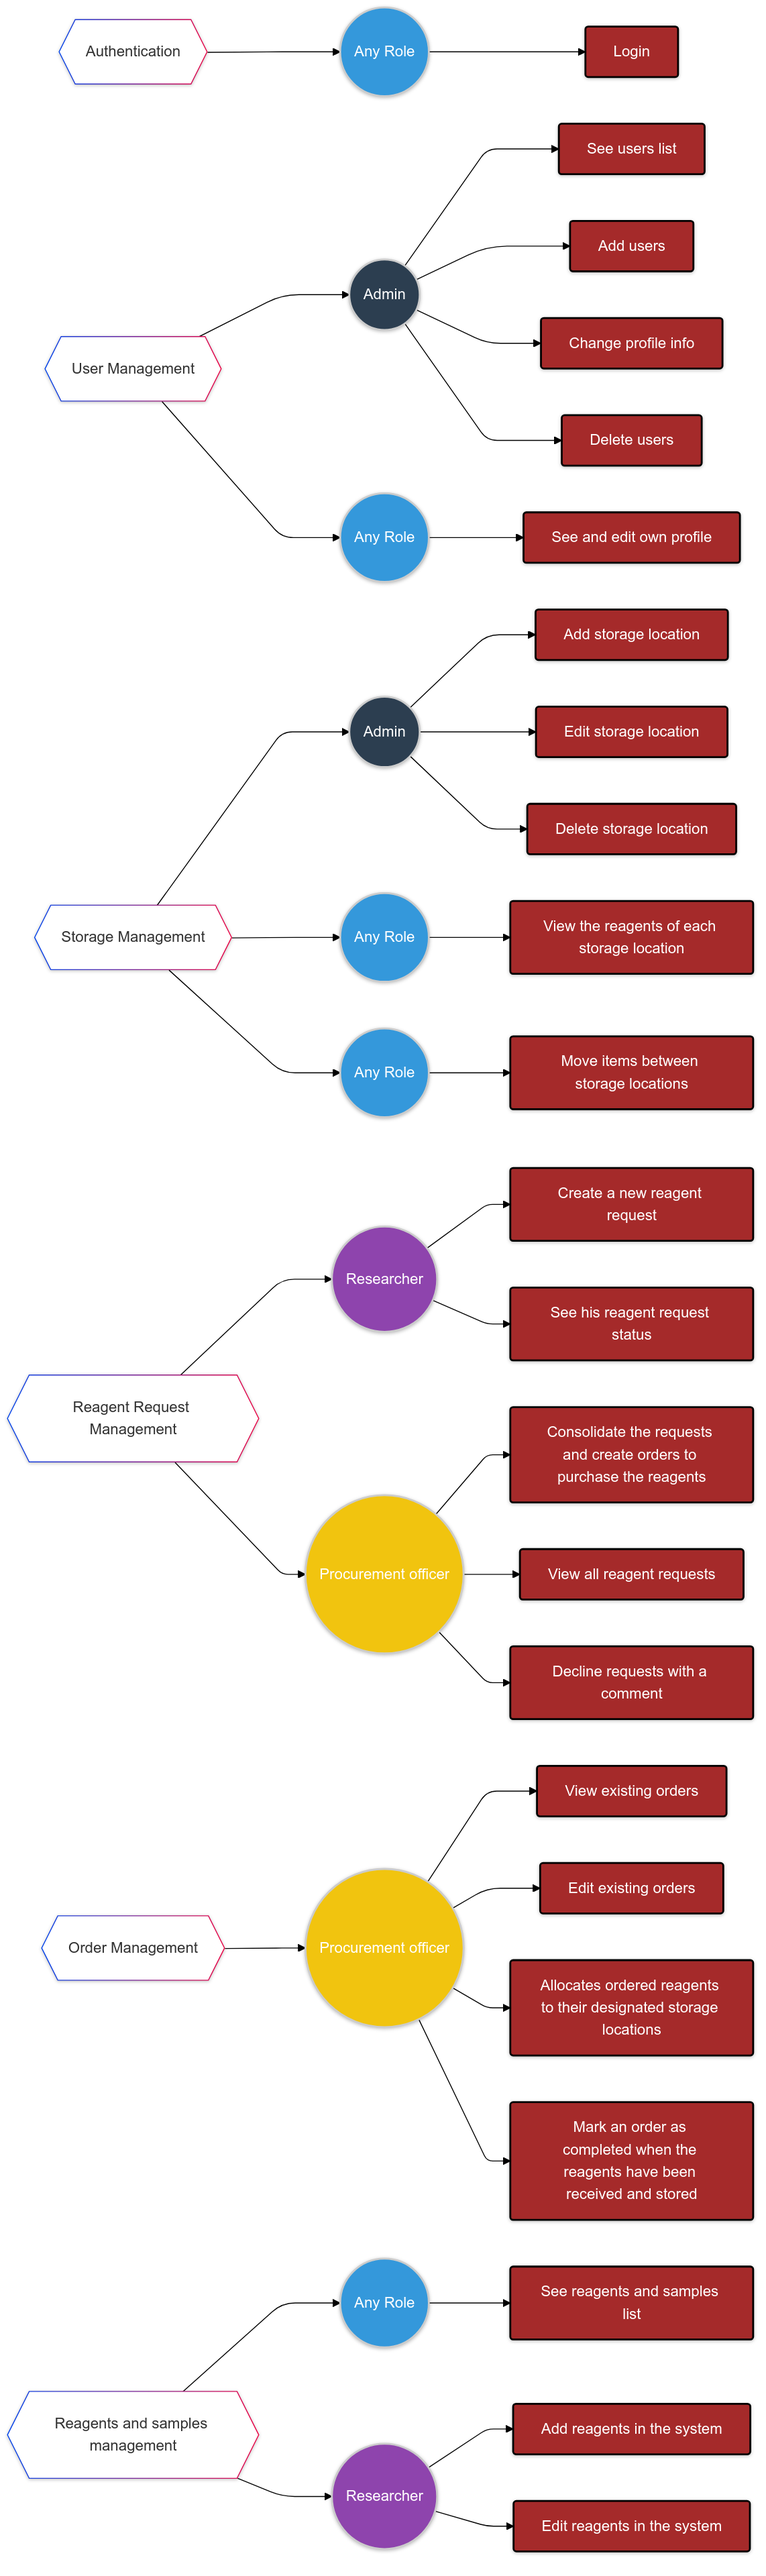
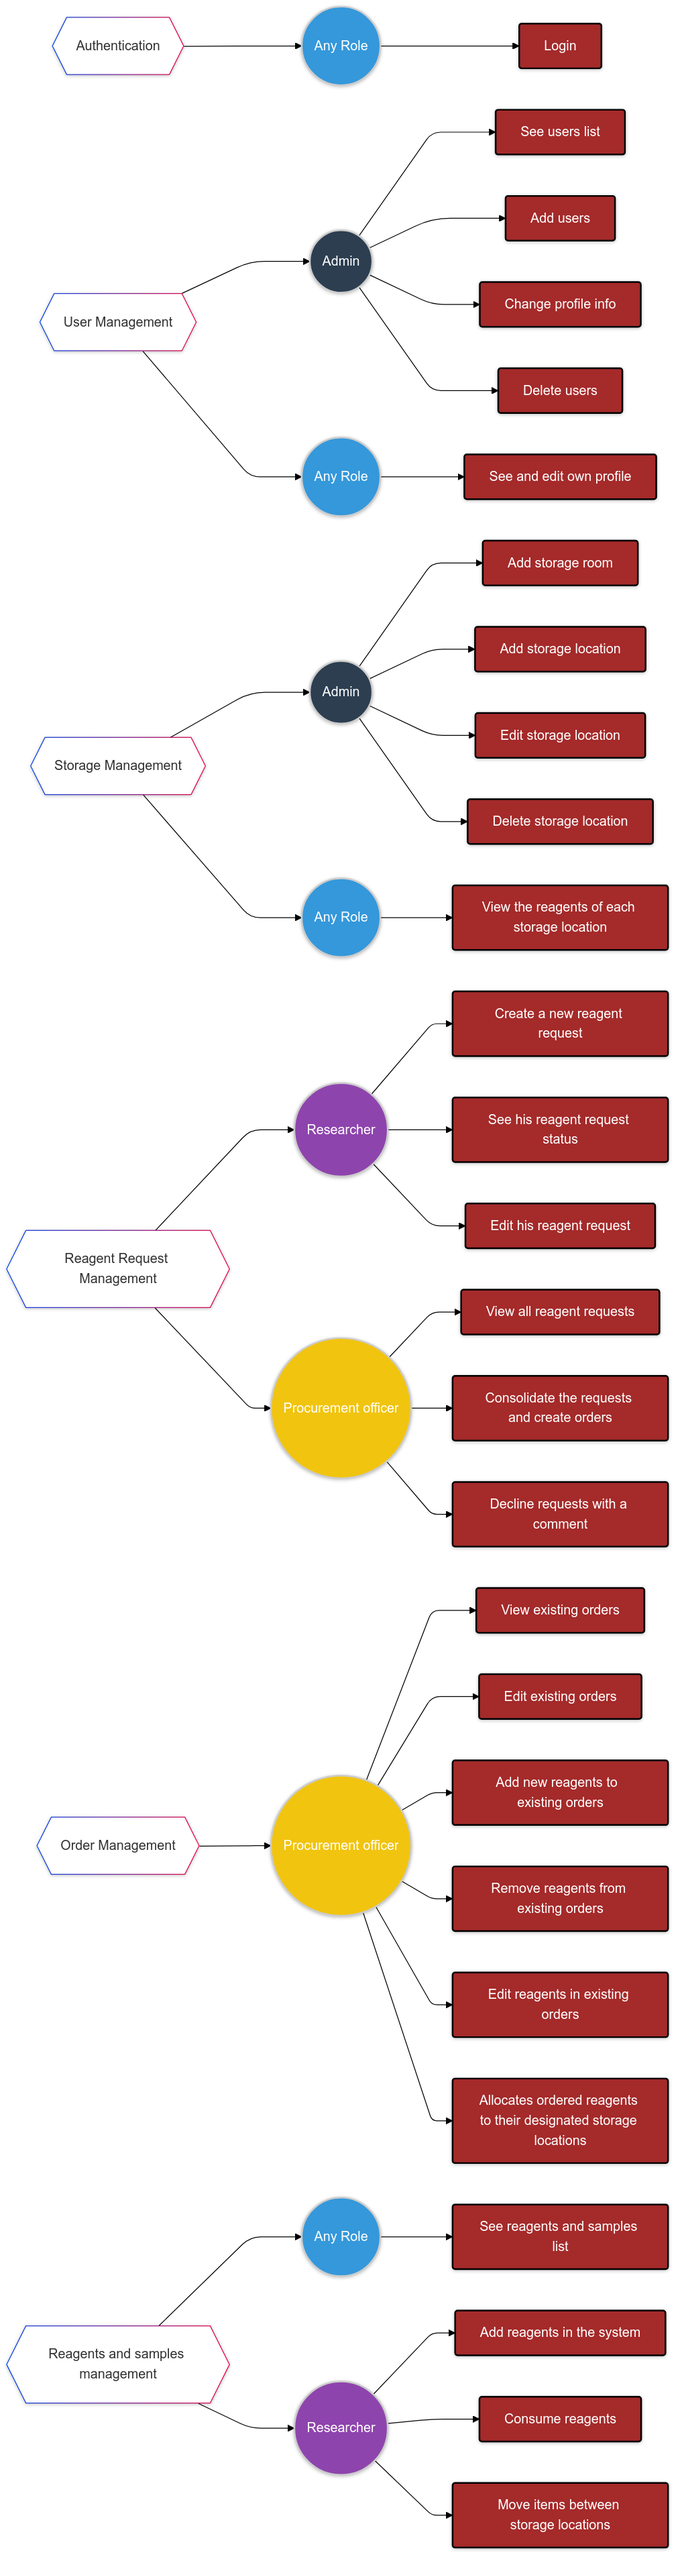
docs: update rolesBased diagram

diff --git a/src/types/substances.ts b/src/types/substances.ts
@@ -9,7 +9,7 @@ export type SubstancesDetails = {
   quantityLeft: string;
   storageLocation?: string;
   isExpired: boolean;
-  unit: string;
+  unit?: string;
 };
 export type CategoryFilterOption = SubstancesCategory | "All";
 export type SortDirection = "asc" | "desc";

diff --git a/README.md b/README.md
@@ -80,28 +80,30 @@ graph LR;
     %% Storage Management
     SM{{Storage Management}} --> AdminSM((Admin))
     SM-->UserSM
-    AdminSM --> AddSM(Add storage location)
+    AdminSM --> AddRSM(Add storage room)
+    AdminSM --> AddSSM(Add storage location)
     AdminSM --> EditSM(Edit storage location)
     AdminSM -->DeleteSM(Delete storage location)
     UserSM((Any Role)) --> ViewSMContent(View the reagents of each storage location)
-    SM -->UserSMResOfficer
-    UserSMResOfficer((Any Role)) --> MoveSMItems(Move items between storage locations)
 
     %% Reagent Request Management
     RRM{{Reagent Request Management}} --> ResearcherRRM((Researcher))
     ResearcherRRM --> CreateRequestRRM(Create a new reagent request)
     ResearcherRRM --> StatusRequestRRM(See his reagent request status)
+    ResearcherRRM --> EditRequestRRM(Edit his reagent request)
     RRM --> OfficerRRM((Procurement officer))
-    OfficerRRM --> ConsolidateRRM(Consolidate the requests and create orders to purchase the reagents)
     OfficerRRM --> ViewRRM(View all reagent requests)
+    OfficerRRM --> ConsolidateRRM(Consolidate the requests and create orders)
     OfficerRRM --> ManageRRM(Decline requests with a comment)
 
     %% Order Management
     OM{{Order Management}} --> OfficerOM((Procurement officer))
     OfficerOM-->ViewOrdersRRM(View existing orders)
     OfficerOM-->EditOrderRRM(Edit existing orders)
+    OfficerOM-->AddReagentRRM(Add new reagents to  existing orders)
+    OfficerOM-->RemoveReagentRRM(Remove reagents from existing orders)
+    OfficerOM-->EditReagentRRM(Edit reagents in existing orders)
     OfficerOM-->AllocateRRM(Allocates ordered reagents to their designated storage locations)
-    OfficerOM-->MarkRRM(Mark an order as completed when the reagents have been received and stored)
 
     %% Reagents and samples management
     RSM{{Reagents and samples management}} --> UserRSMQ((Any Role))
@@ -109,8 +111,8 @@ graph LR;
 
     UserRSMQ --> SeeReagentsSamples(See reagents and samples list)
     UserRSMR --> AddReagentsSamples(Add reagents in the system)
-    UserRSMR --> EditReagentsSamples(Edit reagents in the system)
-
+    UserRSMR --> EditReagentsSamples(Consume reagents)
+    UserRSMR --> MoveSamples(Move items between storage locations)
 
 
 
@@ -134,7 +136,7 @@ graph LR;
     class User,UserUM,UserSM,UserRSM,UserSMResOfficer,UserRSMQ user;
 
     %% Applying priority class
-    class Login,CreateUsers,UsersList,SeeAndEditUM,ChangeUserInfo,MH,DeleteUsers,AddSM,EditSM,DeleteSM,ViewSMContent,MoveSMItems,CreateRequestRRM,StatusRequestRRM,ConsolidateRRM,AllocateRRM,ManageRRM,ViewRRM,ViewOrdersRRM,EditOrderRRM,MarkRRM,SeeReagentsSamples,AddReagentsSamples,EditReagentsSamples must;
+    class RemoveReagentRRM,EditReagentRRM,MoveSamples,AddReagentRRM,EditRequestRRM,Login,CreateUsers,UsersList,SeeAndEditUM,ChangeUserInfo,MH,DeleteUsers,AddRSM,AddSSM,EditSM,DeleteSM,ViewSMContent,MoveSMItems,CreateRequestRRM,StatusRequestRRM,ConsolidateRRM,AllocateRRM,ManageRRM,ViewRRM,ViewOrdersRRM,EditOrderRRM,MarkRRM,SeeReagentsSamples,AddReagentsSamples,EditReagentsSamples must;
     class ResetPassUM,SH should;
     class ResetPass,CH could;
 
